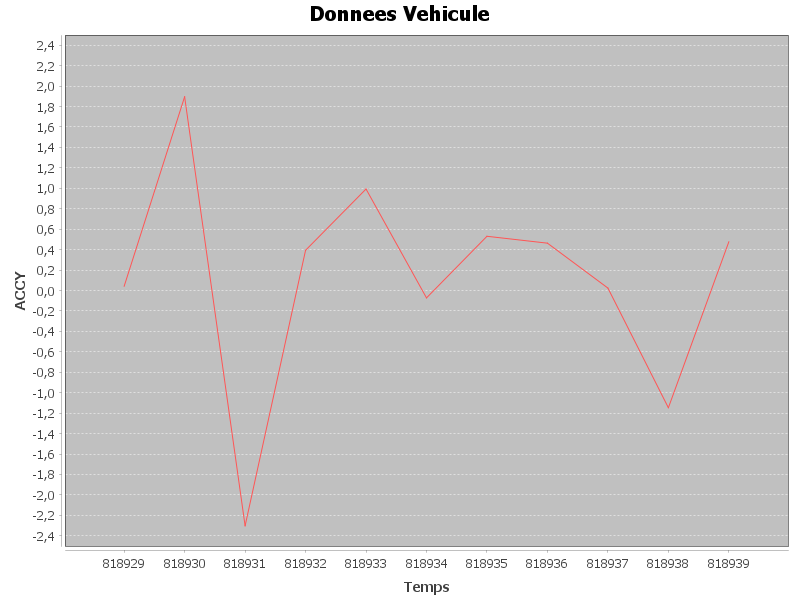
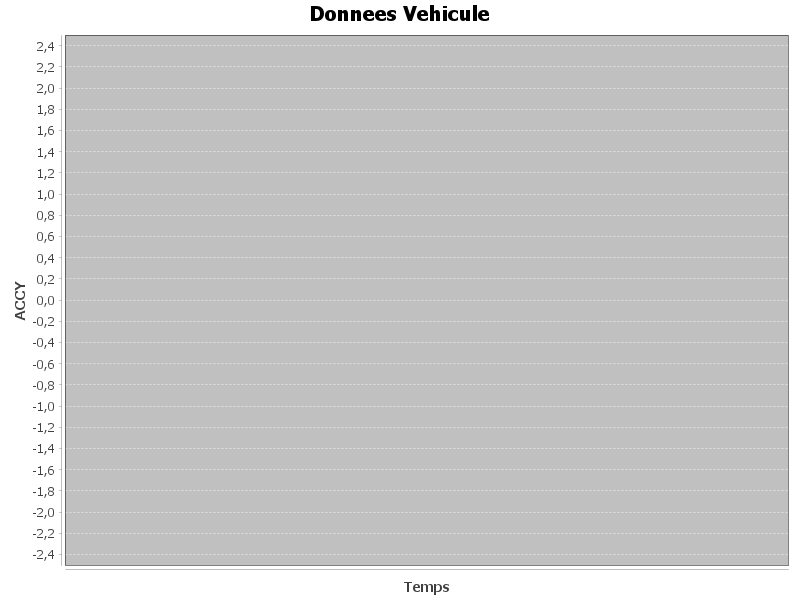
voili voilou

diff --git a/src/appwithjsonandrest/MyJFrame.java b/src/appwithjsonandrest/MyJFrame.java
@@ -35,7 +35,7 @@ import static appwithjsonandrest.GetPost.POSTImageJson;
 
 public class MyJFrame extends javax.swing.JFrame {
 
-    String urlGet = "http://192.168.89.131:8080/ords/devadri/test/a?begintime=818929&endtime=818960";
+    String urlGet = "http://192.168.89.131:8080/ords/devadri/test/a";
     String urlPost = "http://192.168.89.131:8080/ords/devadri/test/a";
     int indexGraphMax = 20;
     int indexGraphMin = 0;
@@ -79,12 +79,11 @@ public class MyJFrame extends javax.swing.JFrame {
 
     public MyJFrame() {
         initComponents();
-
         showEvolution();
     }
-
     private void showEvolution()
     {
+        //region GUI
         JFreeChart jfc = ChartFactory.createLineChart
                 ("Donnees Vehicule", "Temps", "ACCY",
                         ds, PlotOrientation.VERTICAL, false, true, false);
@@ -121,6 +120,42 @@ public class MyJFrame extends javax.swing.JFrame {
         // Initialisation de la JComboBox
         AxesComboBox = new JComboBox<>(Axes);
 
+        // Définissez la taille préférée de la fenêtre
+        Dimension screenSize = Toolkit.getDefaultToolkit().getScreenSize();
+        int preferredWidth = (int) (screenSize.width * 0.8); // Utilisez 80% de la largeur de l'écran
+        int preferredHeight = (int) (screenSize.height * 0.8); // Utilisez 80% de la hauteur de l'écran
+        Dimension preferredSize = new Dimension(preferredWidth, preferredHeight);
+        setPreferredSize(preferredSize);
+
+        // Modifiez le layout du panneau principal pour utiliser BorderLayout.CENTER pour les boutons
+        JPanel mainPanel = new JPanel(new BorderLayout());
+        mainPanel.add(chartPanel, BorderLayout.CENTER);
+
+        // Créez un panneau pour les boutons
+        JPanel buttonPanel = new JPanel(new FlowLayout());
+        buttonPanel.add(buttonLecture);
+        buttonPanel.add(buttonStop);
+        buttonPanel.add(buttonRetour);
+        buttonPanel.add(buttonSnapShot);
+        buttonPanel.add(AxesComboBox);
+        buttonPanel.add(ChoixComboBox);
+        buttonPanel.add(textFieldTimestamp);
+
+        // Ajoutez le panneau des boutons au panneau principal dans la région SUD
+        mainPanel.add(buttonPanel, BorderLayout.SOUTH);
+
+        // Ajoutez le panneau principal à la fenêtre
+        setContentPane(mainPanel);
+        pack();
+
+        // Centrez la fenêtre sur l'écran
+        setLocationRelativeTo(null);
+        setDefaultCloseOperation(JFrame.EXIT_ON_CLOSE);
+        setVisible(true);
+        //endregion
+
+        //region ACTION LISTENER
+
         AxesComboBox.addActionListener(new ActionListener() {
             @Override
             public void actionPerformed(ActionEvent e) {
@@ -146,27 +181,6 @@ public class MyJFrame extends javax.swing.JFrame {
             }
         });
 
-        // Créez un panneau pour les boutons
-        JPanel buttonPanel = new JPanel();
-        buttonPanel.setLayout(new FlowLayout());
-        buttonPanel.add(buttonLecture);
-        buttonPanel.add(buttonStop);
-        buttonPanel.add(buttonRetour);
-        buttonPanel.add(buttonSnapShot);
-        buttonPanel.add(AxesComboBox);
-        buttonPanel.add(ChoixComboBox);
-        buttonPanel.add(textFieldTimestamp);
-
-
-        // Créez un panneau principal pour contenir le graphique et les boutons
-        JPanel mainPanel = new JPanel(new BorderLayout());
-        mainPanel.add(chartPanel, BorderLayout.CENTER);
-        mainPanel.add(buttonPanel, BorderLayout.SOUTH);
-
-        setContentPane(mainPanel);
-        //getContentPane().setSize(new Dimension(1800,1800));
-
-        // Ajoutez des ActionListener aux boutons
         buttonLecture.addActionListener(new ActionListener() {
             @Override
             public void actionPerformed(ActionEvent e) {
@@ -179,6 +193,7 @@ public class MyJFrame extends javax.swing.JFrame {
                 for (int i = indexGraphMin; i < nombreLigneJson && i < indexGraphMax; i++)
                 {
                     ds.addValue(axesSelected[i], rowKey, Integer.toString(timestamp[i]));
+                    System.out.println(axesSelected[i]);
                 }
 
                 worker = new SwingWorker<Void, Void>()
@@ -285,6 +300,7 @@ public class MyJFrame extends javax.swing.JFrame {
                 }
             }
         });
+        //endregion
     }
 
     public void parsingJSON(StringBuilder dataJson)
@@ -326,11 +342,21 @@ public class MyJFrame extends javax.swing.JFrame {
                 if(key.equals("ACCZ"))
                     accz[i] = (double) currentObject.get(key);
                 if(key.equals("GYROY"))
-                    gyroy[i] = (double) currentObject.get(key);
+                    try{
+                        gyroy[i] = (double) currentObject.get(key);
+                    } catch (ClassCastException e) {
+                        System.out.println("Erreur de casting pour gyroy : " + e.getMessage());
+                        gyroy[i] = (double)(int) currentObject.get(key);
+                    }
                 if(key.equals("ACCX"))
                     accx[i] = (double) currentObject.get(key);
                 if(key.equals("GYROZ"))
-                    gyroz[i] = (double) currentObject.get(key);
+                    try {
+                        gyroz[i] = (double) currentObject.get(key);
+                    } catch (ClassCastException e) {
+                        System.out.println("Erreur de casting pour gyroz : " + e.getMessage());
+                        gyroz[i] = (double)(int) currentObject.get(key);
+                    }
                 if(key.equals("GYROX"))
                     try {
                         gyrox[i] = (double) currentObject.get(key);
@@ -342,6 +368,10 @@ public class MyJFrame extends javax.swing.JFrame {
                     classe[i] = (String) currentObject.get(key);
                 j++;
             }
+        }
+        for(int i = 0; i < nombreLigneJson; i++)
+        {
+            System.out.println("ACCX : " + accx[i]);
         }
     }
 
